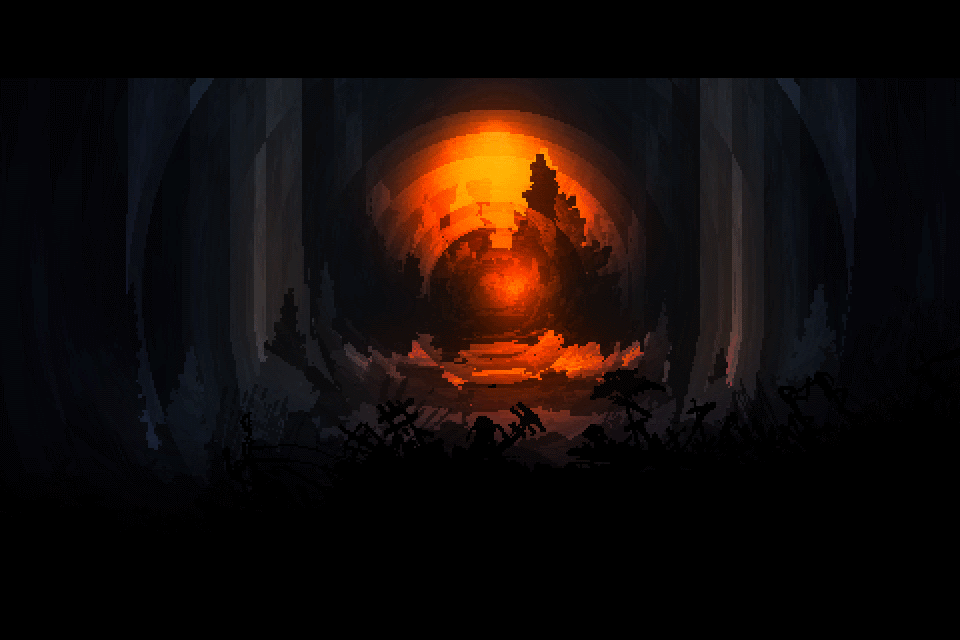
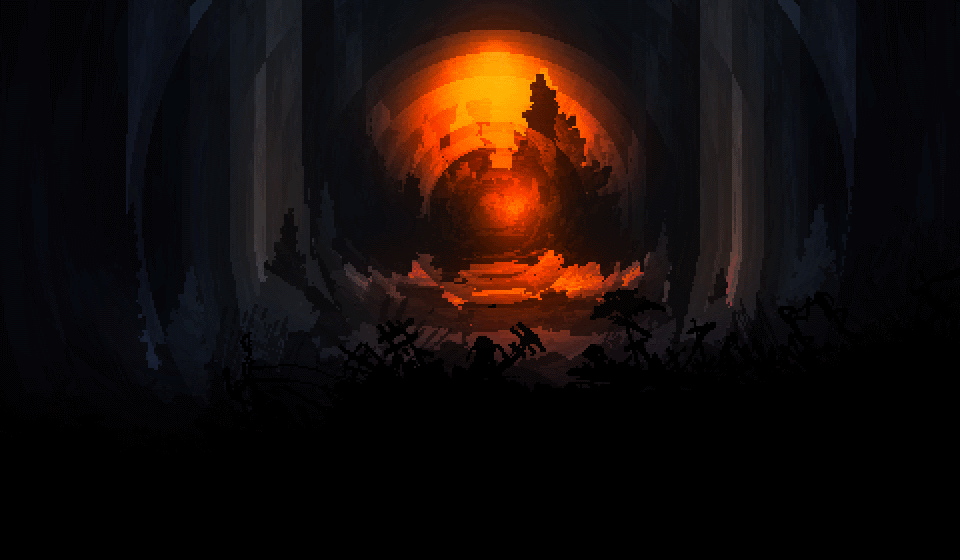
bg paint edit

diff --git a/XNAMode/hawksnest/Levels/BasePlayState.cs b/XNAMode/hawksnest/Levels/BasePlayState.cs
@@ -244,10 +244,10 @@ namespace XNAMode
 
             bgSprite.loadGraphic(bgGraphic);
             //bgSprite.loadTiles(FlxG.Content.Load<Texture2D>("initials/" + levelAttrs["bgGraphic"]), 48, 64, 0);
-            bgSprite.scrollFactor.X = 0.5f;
-            bgSprite.scrollFactor.Y = 0.5f;
-            bgSprite.x = -200;
-            bgSprite.y = -200;
+            bgSprite.scrollFactor.X = 0.4f;
+            bgSprite.scrollFactor.Y = 0.4f;
+            bgSprite.x = 0;
+            bgSprite.y = 0;
             bgSprite.color = Color.DarkGray;
 
             bgSprite.boundingBoxOverride = false;

diff --git a/XNAMode/GameSelectionMenuState.cs b/XNAMode/GameSelectionMenuState.cs
@@ -47,7 +47,7 @@ namespace XNAMode
             //add(bg);
 
 
-            tween = new Tweener(0, -310 , TimeSpan.FromSeconds(3.9f), Quadratic.EaseOut);
+            tween = new Tweener(0, -240 , TimeSpan.FromSeconds(3.9f), Quadratic.EaseOut);
 
             // -350, -310
             bgSprite = new FlxSprite(-350, 0, FlxG.Content.Load<Texture2D>("initials/Fear"));
